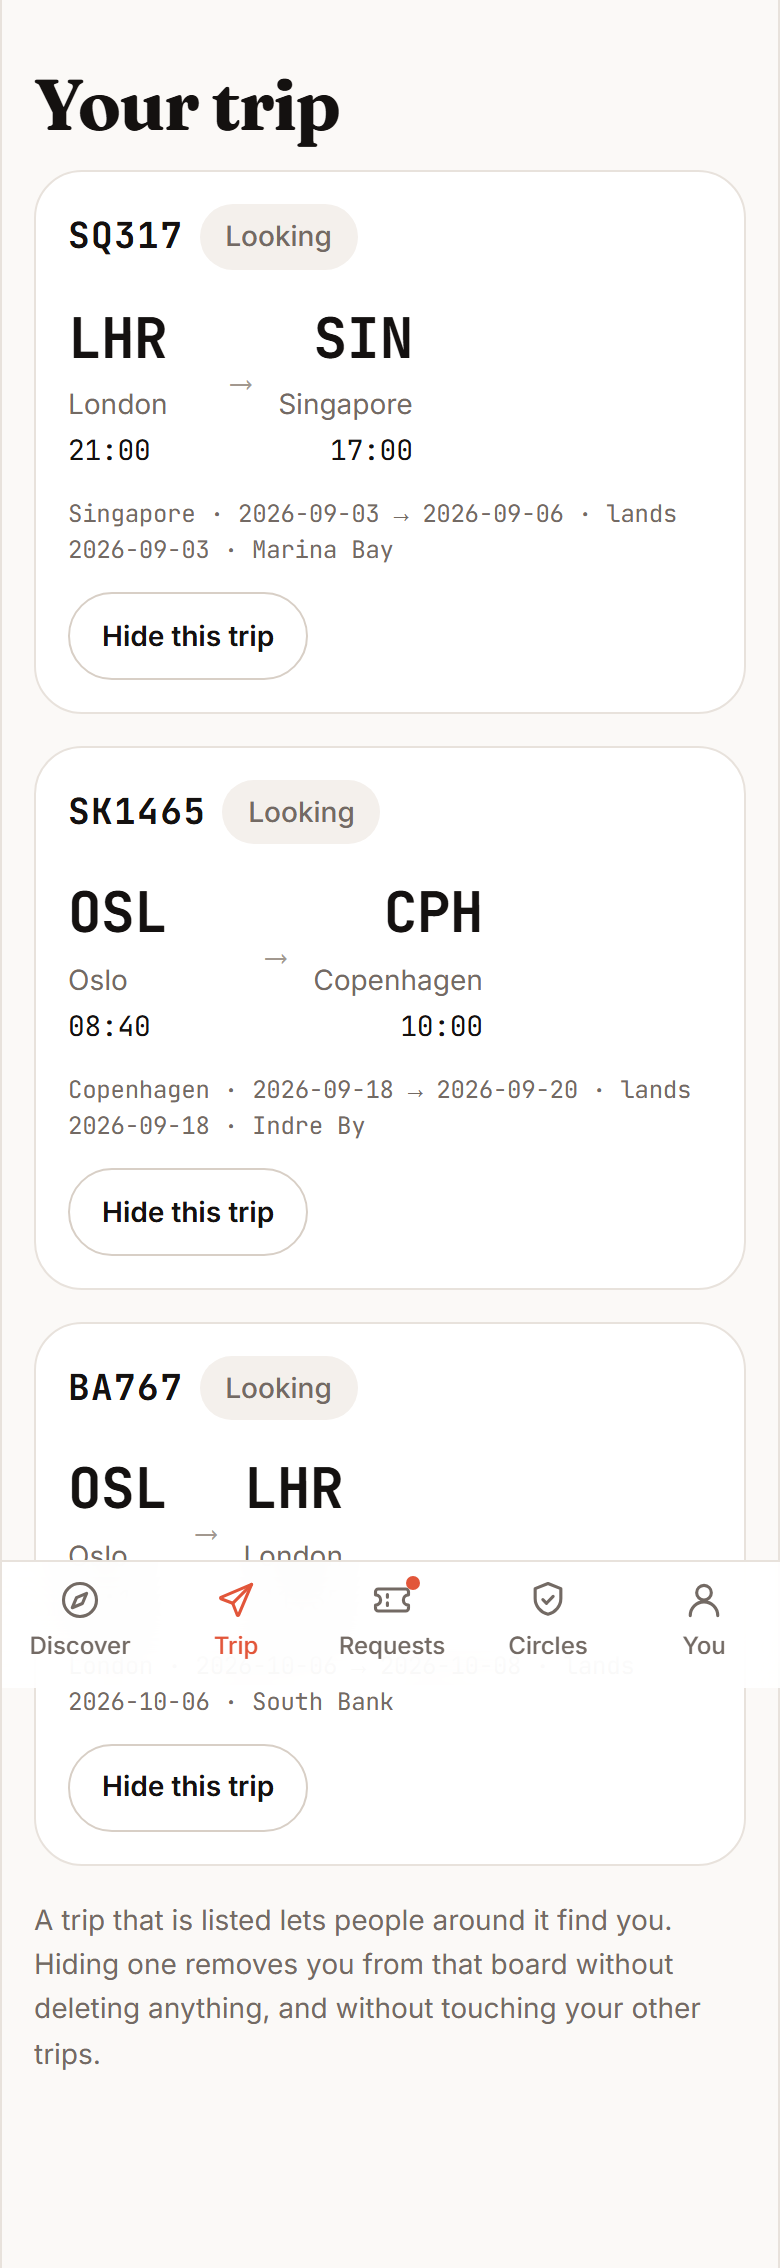
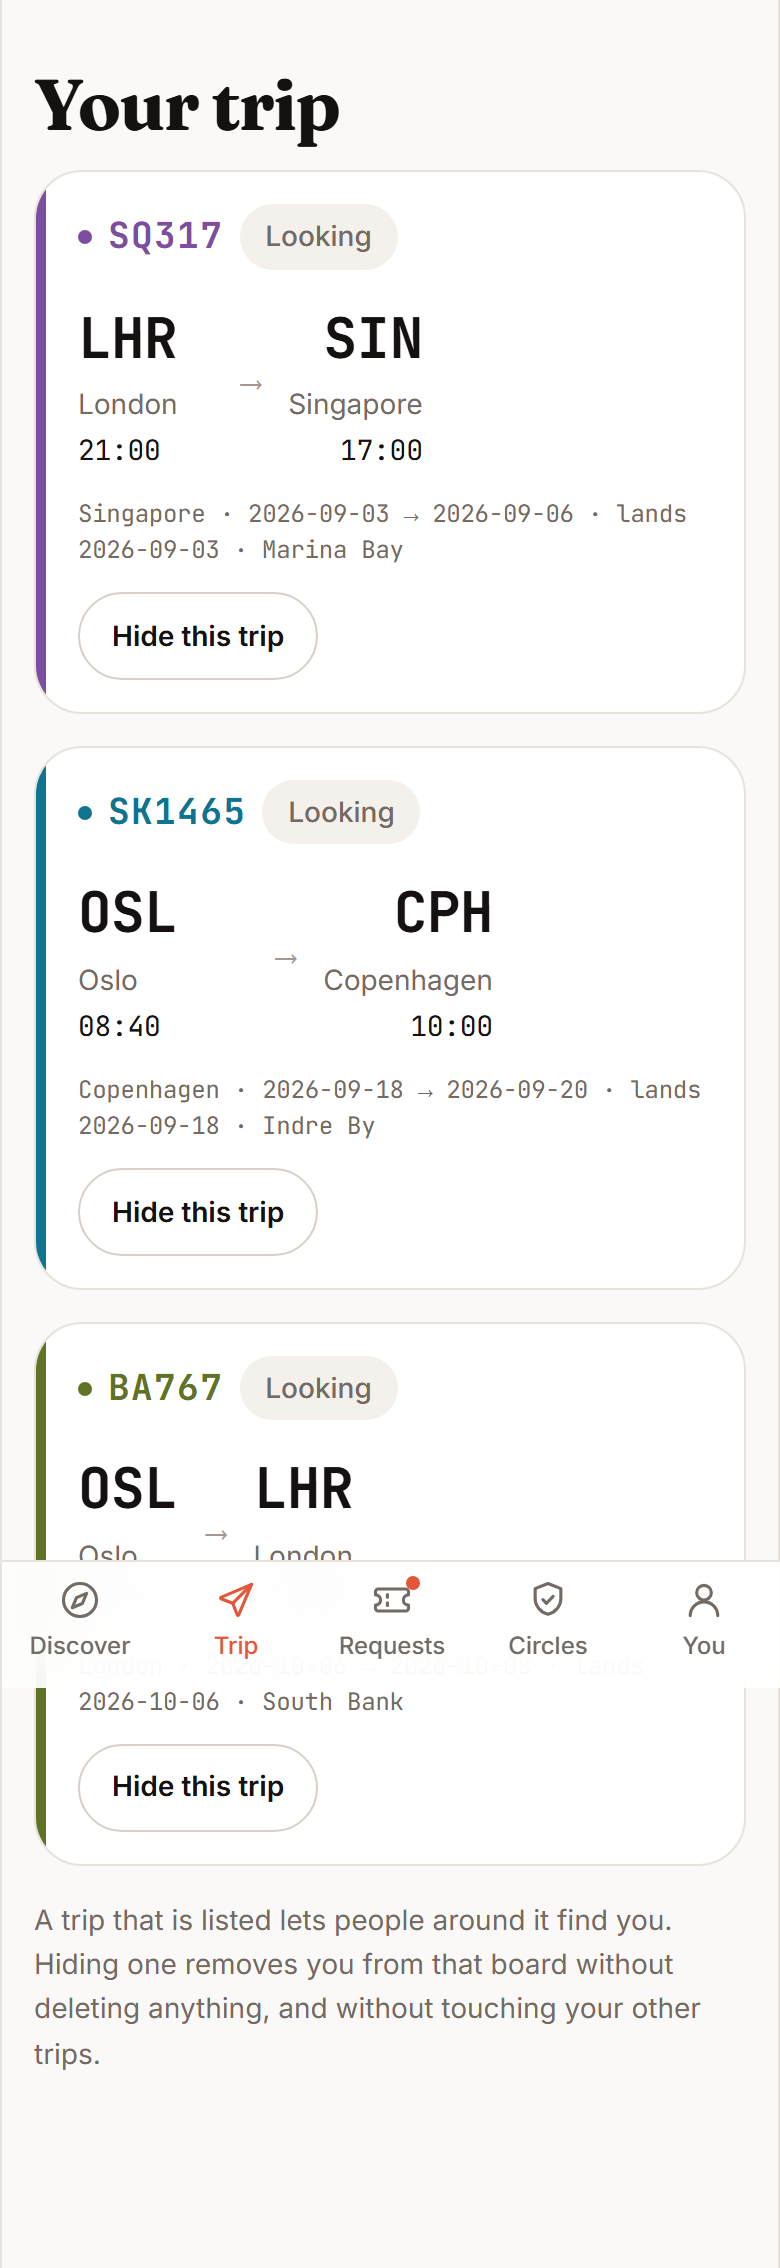
Give each ticket a colour, and carry it onto the board
I argued against this last time — flight codes only, on the grounds that
the palette is four hues by design and a colour has to be learned before
it means anything. The second half of that was the flaw in it. A colour
*does* have to be learned, and the Trip tab is where you learn it: the
ticket carries a stripe down its edge, so by the time you reach Discover
the association is already made and every violet tag is that journey
without reading a word. Code plus colour beats code alone for scanning.

Trip hues are a fifth axis, deliberately outside "the four hues" rather
than an exception to them. Those four are semantic — ember means act,
trust means proved, guard means safety. These mean nothing on their own;
they are wayfinding, like a metro line. Chosen away from the semantic
four in hue so a trip stripe is never mistaken for a verification state:
no oranges, no blue-violet, and the green is olive rather than the deep
teal of trust.

Colour is never the only indicator, which is the house rule and also just
correct here. Every place a hue appears the flight code appears with it,
so someone who cannot separate violet from rose reads SQ317 and loses
nothing.

The hue is derived from the flight code, not from position in a list, so
a trip keeps its colour when you add another, cancel one, or settle one.
A colour that reshuffles when the list changes is worse than no colour —
the entire value is that the ticket and the tag are stably the same thing.
[…]

diff --git a/src/design/tokens/tokens.css b/src/design/tokens/tokens.css
@@ -36,6 +36,34 @@
   --warn: #9a5b00;
   --warn-wash: #fdf1e0;
 
+  /* ── Trip colours ────────────────────────────────────────────────────────
+   *
+   * A fifth axis, and deliberately outside "the four hues" above rather than
+   * an exception to them. Those four are *semantic*: ember means act, trust
+   * means proved, guard means safety. These mean nothing at all on their own —
+   * they are wayfinding, like a metro line. Their whole job is that the ticket
+   * in your Trip tab and the tag on a person's card are recognisably the same
+   * journey at a glance.
+   *
+   * Chosen to sit away from the semantic four in hue, so a trip stripe is
+   * never mistaken for a verification state: no oranges (ember), no blue-violet
+   * (guardian), and the green is olive rather than the deep teal of trust.
+   *
+   * Colour is never the only indicator here either. Every place one of these
+   * appears, the flight code appears with it — someone who cannot separate the
+   * violet trip from the rose one still reads SQ317 and SK1465.
+   */
+  --trip-0: #7c4da0;
+  --trip-0-wash: #f4eefa;
+  --trip-1: #a97316;
+  --trip-1-wash: #fbf1e0;
+  --trip-2: #0e7490;
+  --trip-2-wash: #e6f4f8;
+  --trip-3: #b8446a;
+  --trip-3-wash: #fceef2;
+  --trip-4: #5f7326;
+  --trip-4-wash: #f1f5e4;
+
   /* ── Type ────────────────────────────────────────────────────────────── */
   --font-display: 'Fraunces', 'Iowan Old Style', Georgia, serif;
   --font-body: 'Inter', system-ui, -apple-system, 'Segoe UI', sans-serif;
@@ -118,6 +146,18 @@
     --trust: #3fbf9c;
     --trust-wash: #10241f;
     --guard: #8a95ff;
+
+    /* Wayfinding hues, lifted for a dark ground — see the light block. */
+    --trip-0: #c49ae0;
+    --trip-0-wash: #2b1f36;
+    --trip-1: #e0b063;
+    --trip-1-wash: #33270f;
+    --trip-2: #5fbcd6;
+    --trip-2-wash: #102c36;
+    --trip-3: #ef8bab;
+    --trip-3-wash: #341823;
+    --trip-4: #a8bf6a;
+    --trip-4-wash: #232b12;
     --guard-wash: #1a1c32;
     --warn: #e0a458;
     --warn-wash: #2a1f0f;
@@ -150,6 +190,18 @@
   --trust: #3fbf9c;
   --trust-wash: #10241f;
   --guard: #8a95ff;
+
+  /* Wayfinding hues, lifted for a dark ground — see the light block. */
+  --trip-0: #c49ae0;
+  --trip-0-wash: #2b1f36;
+  --trip-1: #e0b063;
+  --trip-1-wash: #33270f;
+  --trip-2: #5fbcd6;
+  --trip-2-wash: #102c36;
+  --trip-3: #ef8bab;
+  --trip-3-wash: #341823;
+  --trip-4: #a8bf6a;
+  --trip-4-wash: #232b12;
   --guard-wash: #1a1c32;
   --warn: #e0a458;
   --warn-wash: #2a1f0f;

diff --git a/src/design/tokens/screens.css b/src/design/tokens/screens.css
@@ -1015,11 +1015,21 @@
 
 /* Raised rather than inverted. A solid ink slab for the active segment is the
    heaviest possible way to say "this one", and it fights the photographs. */
+.segmented__item {
+  gap: 5px;
+}
+
 .segmented__item.is-on {
   background: var(--surface);
   color: var(--ink);
   font-weight: 600;
   box-shadow: 0 1px 2px rgb(0 0 0 / 7%);
+}
+
+/* Selected or not, the dot stays its journey's colour — that is what makes the
+   picker and the cards read as the same set. */
+.segmented__item.is-on .tripdot {
+  box-shadow: 0 0 0 2px var(--trip-wash);
 }
 
 .segmented__item:focus-visible {
@@ -1107,9 +1117,15 @@
 /* A flight code, not a colour. It sits above the name because it answers
    "which of my journeys is this?" — a question you ask before "who is this?". */
 .pcard__trip {
+  display: flex;
+  align-items: center;
+  gap: 6px;
   font-size: var(--text-xs);
   letter-spacing: 0.08em;
-  color: var(--faint);
+  /* The journey's own colour, so a glance down the board groups the cards
+     without reading a single code. The code is still right there for anyone
+     the colour does not reach. */
+  color: var(--trip-colour, var(--faint));
   margin: 0;
   padding-bottom: var(--sp-1);
   border-bottom: 1px solid var(--hairline);
@@ -1136,7 +1152,7 @@
 .settled__code {
   font-size: var(--text-sm);
   font-weight: 600;
-  color: var(--ink);
+  color: var(--trip-colour, var(--ink));
   letter-spacing: 0.06em;
 }
 
@@ -1150,14 +1166,37 @@
 /* ── Trip block ──────────────────────────────────────────────────────────── */
 
 .tripblock {
+  position: relative;
   display: flex;
   flex-direction: column;
   align-items: flex-start;
   gap: var(--sp-3);
-  padding: var(--sp-4);
+  padding: var(--sp-4) var(--sp-4) var(--sp-4) calc(var(--sp-4) + 5px);
   background: var(--surface);
   border: 1px solid var(--hairline);
   border-radius: var(--r-card);
+  overflow: hidden;
+}
+
+/* The stripe down the edge of a boarding pass. This is the thing you learn the
+   colour from — it is the largest instance of it, and it sits on the screen
+   where you look at your own trips, so by the time you reach Discover the
+   association is already made. */
+.tripblock::before {
+  content: '';
+  position: absolute;
+  inset: 0 auto 0 0;
+  width: 5px;
+  background: var(--trip-colour, var(--hairline));
+}
+
+/* Settled and hidden tickets keep their identity but stop shouting. */
+.tripblock--closed::before {
+  opacity: 0.45;
+}
+
+.tripblock__code {
+  color: var(--trip-colour, var(--ink));
 }
 
 /* Settled and hidden trips recede rather than disappear — they are still

diff --git a/src/design/patterns/PersonCard.tsx b/src/design/patterns/PersonCard.tsx
@@ -1,6 +1,7 @@
 import type { ReactNode } from 'react';
 import type { RedactedPerson } from '@domain/person';
 import { isRedacted } from '@domain/person';
+import { tripHueClass } from '../tokens/tripHue';
 import { Avatar } from '../primitives/Avatar';
 import { Chip } from '../primitives/Chip';
 import { StampBadge } from './StampBadge';
@@ -41,12 +42,16 @@ export interface PersonCardProps {
   /**
    * Which of the viewer's own journeys this suggestion belongs to — "SQ317".
    *
-   * A flight code rather than a colour swatch. Colour would need three or four
-   * new hues to stay distinguishable, and the palette is four in total by
-   * design; more importantly a colour has to be learned before it means
-   * anything, whereas the code is the same string the person is already looking
-   * for on a departure board. It is set in mono, like every other flight fact
-   * in this app.
+   * A flight code *and* a colour. The code is the information — it is the same
+   * string the person is already looking for on a departure board, and it is
+   * set in mono like every other flight fact here. The colour is a shortcut on
+   * top of it: once you have seen the violet ticket in your Trip tab, every
+   * violet tag on this board is that journey without reading anything.
+   *
+   * The colour is never load-bearing on its own. Someone who cannot separate
+   * the violet trip from the rose one loses nothing, because the code is right
+   * there — which is the rule the whole design system follows for stamps and
+   * states too.
    */
   tripCode?: string;
   /** Why they are here. Shown under the fold on the detail view. */
@@ -90,7 +95,8 @@ export function PersonCard({
       {...(onClick ? { type: 'button' as const, onClick } : {})}
     >
       {tripCode && (
-        <p className="pcard__trip mono">
+        <p className={`pcard__trip mono ${tripHueClass(tripCode)}`}>
+          <span className="tripdot" aria-hidden="true" />
           <span className="visually-hidden">For your trip </span>
           {tripCode}
         </p>

diff --git a/src/design/tokens/tripHue.ts b/src/design/tokens/tripHue.ts
@@ -1,0 +1,33 @@
+/**
+ * Which colour a journey wears.
+ *
+ * Derived from the flight code rather than from the trip's position in a list,
+ * so a trip keeps its colour when you add another one, cancel one, or settle
+ * one. A colour that reshuffles the moment the list changes is worse than no
+ * colour at all: the whole point is that the ticket in your Trip tab and the
+ * tag on somebody's card are recognisably the same thing, and that only holds
+ * if the mapping is stable.
+ *
+ * Five hues, which is enough that two trips in flight at once almost never
+ * collide, and few enough that they stay distinguishable. On a collision the
+ * flight code still separates them — colour is a shortcut here, never the
+ * information itself.
+ *
+ * Pure and dependency-free: it is a string in, a class name out, so it can be
+ * called from anywhere in the render tree without dragging state along.
+ */
+
+export const TRIP_HUE_COUNT = 5;
+
+export function tripHueIndex(code: string): number {
+  // FNV-1a. Small, fast, and — unlike summing char codes — it does not map
+  // "SQ317" and "SQ371" to the same bucket.
+  let h = 2166136261;
+  for (let i = 0; i < code.length; i++) {
+    h = Math.imul(h ^ code.charCodeAt(i), 16777619) >>> 0;
+  }
+  return h % TRIP_HUE_COUNT;
+}
+
+/** The class that carries `--trip-colour` and `--trip-wash` for this journey. */
+export const tripHueClass = (code: string): string => `hue-${tripHueIndex(code)}`;

diff --git a/src/design/tokens/components.css b/src/design/tokens/components.css
@@ -491,3 +491,30 @@ button.pcard:active {
   right: var(--sp-4);
   z-index: var(--z-toast);
 }
+
+/* ── Trip colour ─────────────────────────────────────────────────────────── */
+
+/*
+ * `hue-N` maps a journey to its wayfinding pair, and everything downstream
+ * reads `--trip-colour` / `--trip-wash` rather than naming a hue. That means a
+ * ticket, a card tag and a filter segment all pick up the same colour from one
+ * class, and re-hueing the whole set is five lines here rather than a search
+ * across three screens.
+ */
+.hue-0 { --trip-colour: var(--trip-0); --trip-wash: var(--trip-0-wash); }
+.hue-1 { --trip-colour: var(--trip-1); --trip-wash: var(--trip-1-wash); }
+.hue-2 { --trip-colour: var(--trip-2); --trip-wash: var(--trip-2-wash); }
+.hue-3 { --trip-colour: var(--trip-3); --trip-wash: var(--trip-3-wash); }
+.hue-4 { --trip-colour: var(--trip-4); --trip-wash: var(--trip-4-wash); }
+
+/* The dot that carries the colour. Always beside the flight code, never
+   instead of it — someone who cannot separate violet from rose still reads
+   SQ317, and that has to keep being true. */
+.tripdot {
+  display: inline-block;
+  width: 7px;
+  height: 7px;
+  border-radius: var(--r-pill);
+  background: var(--trip-colour, var(--faint));
+  flex: none;
+}

diff --git a/src/screens/discover/BoardScreen.tsx b/src/screens/discover/BoardScreen.tsx
@@ -3,6 +3,7 @@ import { Chip } from '@design/primitives/Chip';
 import { Button } from '@design/primitives/Button';
 import { bucketLabel } from '@lib/bucket';
 import { tripCode } from '@domain/trip';
+import { tripHueClass } from '@design/tokens/tripHue';
 import { useBoard, useRelaxations, type BoardCandidate } from '@state/selectors/board';
 import { useStore } from '@state/store';
 import { personById } from '@data/seed/people';
@@ -52,8 +53,9 @@ export function BoardScreen({ onOpen }: { onOpen: (id: string) => void }) {
       {board.settledTrips.map((t) => {
         const withWhom = personById(String(t.outcome!.settledWith));
         return (
-          <div className="settled" key={String(t.id)}>
+          <div className={`settled ${tripHueClass(tripCode(t))}`} key={String(t.id)}>
             <div className="settled__head">
+              <span className="tripdot" aria-hidden="true" />
               <span className="settled__code mono">{tripCode(t)}</span>
               <Chip tone="trust">Sorted</Chip>
             </div>

diff --git a/src/screens/discover/BoardFilters.tsx b/src/screens/discover/BoardFilters.tsx
@@ -1,5 +1,6 @@
 import type { Trip } from '@domain/index';
 import { tripCode } from '@domain/trip';
+import { tripHueClass } from '@design/tokens/tripHue';
 import { SEED_CIRCLES } from '@data/seed/circles';
 import { NO_FILTERS, useStore } from '@state/store';
 
@@ -62,10 +63,13 @@ export function BoardFilters({ openTrips }: { openTrips: Trip[] }) {
             <button
               key={String(t.id)}
               type="button"
-              className={`segmented__item mono ${filters.tripId === String(t.id) ? 'is-on' : ''}`}
+              className={`segmented__item mono ${tripHueClass(tripCode(t))} ${
+                filters.tripId === String(t.id) ? 'is-on' : ''
+              }`}
               aria-pressed={filters.tripId === String(t.id)}
               onClick={() => setFilters({ tripId: String(t.id) })}
             >
+              <span className="tripdot" aria-hidden="true" />
               {tripCode(t)}
             </button>
           ))}

diff --git a/src/screens/trips/TripsScreen.tsx b/src/screens/trips/TripsScreen.tsx
@@ -6,6 +6,7 @@ import type { Trip } from '@domain/index';
 import { asIata } from '@domain/ids';
 import { localTime, localDate } from '@domain/time';
 import { tripCode, tripIsOpen } from '@domain/trip';
+import { tripHueClass } from '@design/tokens/tripHue';
 import { useStore } from '@state/store';
 
 /**
@@ -74,8 +75,11 @@ function TripBlock({
   const open = tripIsOpen(trip);
 
   return (
-    <article className={`tripblock ${open ? '' : 'tripblock--closed'}`}>
+    <article
+      className={`tripblock ${tripHueClass(tripCode(trip))} ${open ? '' : 'tripblock--closed'}`}
+    >
       <header className="tripblock__head">
+        <span className="tripdot tripblock__dot" aria-hidden="true" />
         <span className="tripblock__code mono">{tripCode(trip)}</span>
         {trip.outcome ? (
           <Chip tone="trust">Sorted</Chip>
